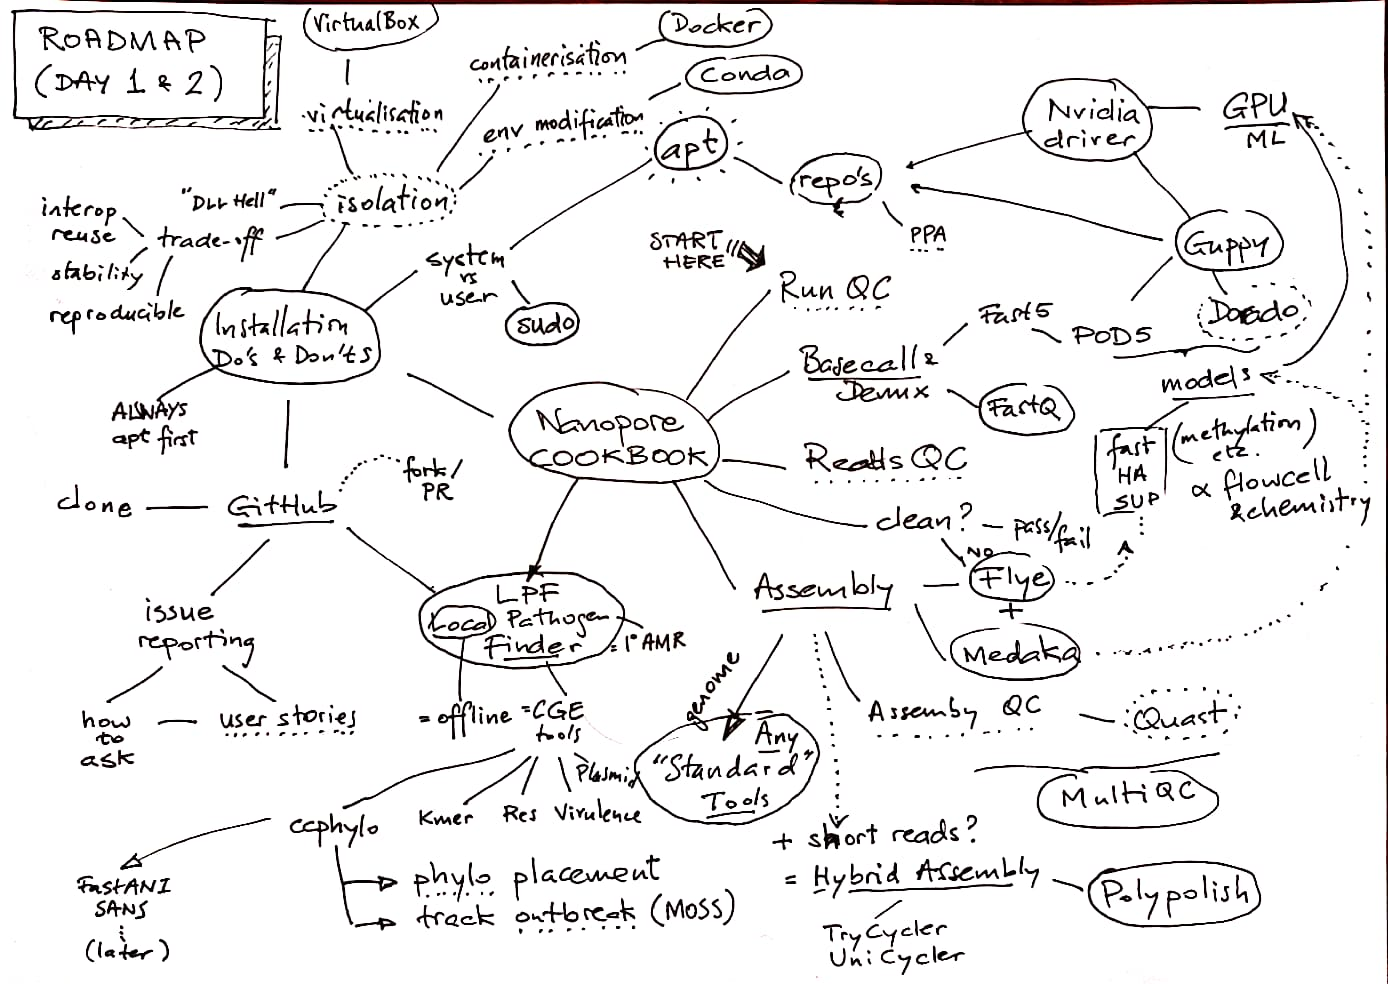
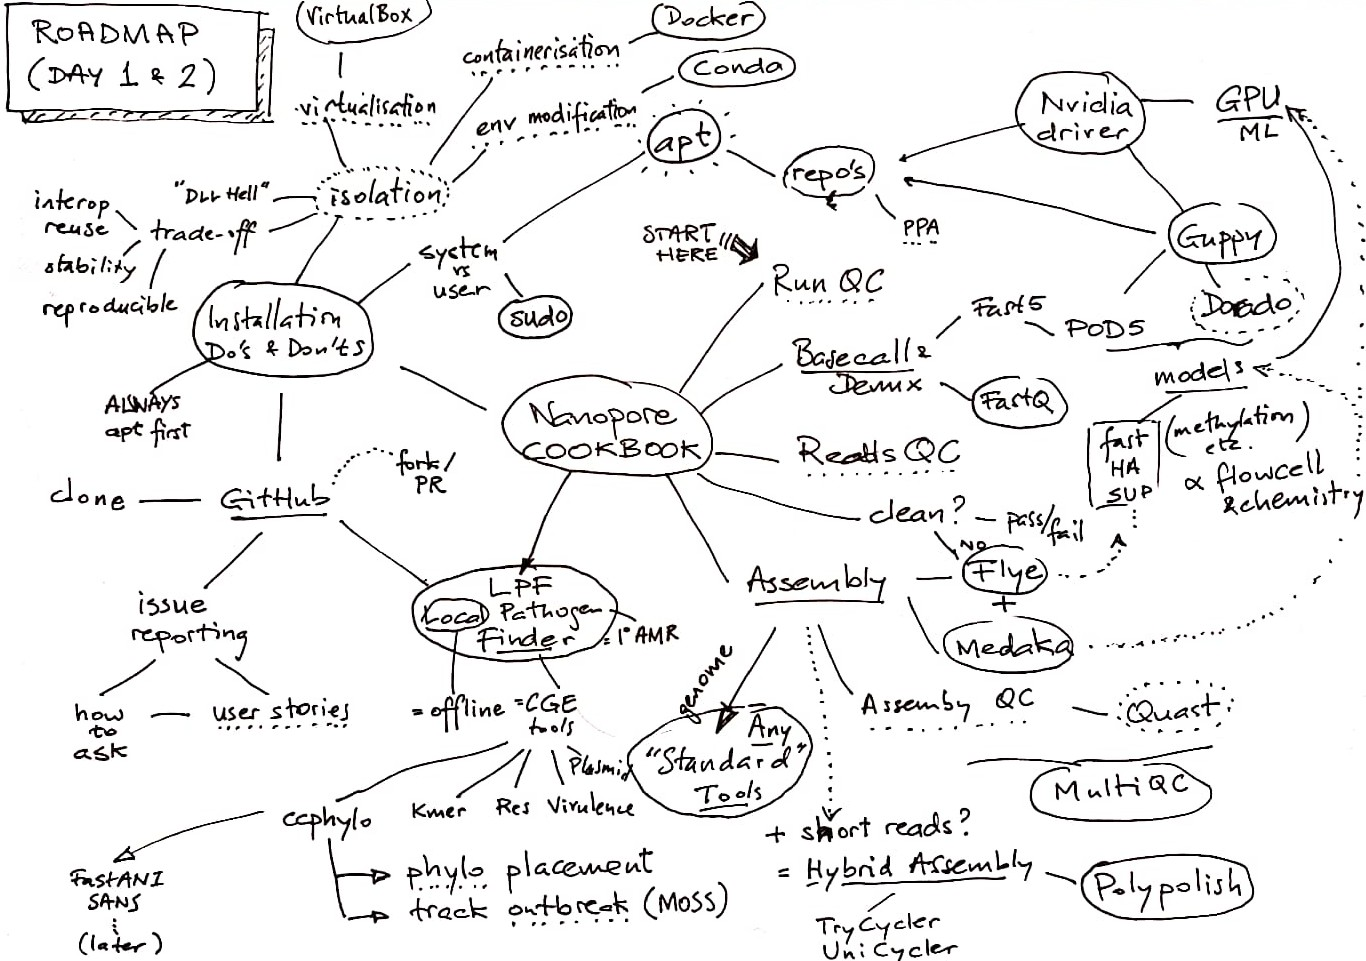
[nano-cookbook] trim black edge off roadmap

diff --git a/_notes/nano-cookbook.md b/_notes/nano-cookbook.md
@@ -1,6 +1,6 @@
 ---
-title: Nano Cookbook - Course materials for 2023-05 SeqAfrica/FAO Nanopore workshop
-excerpt: "Notebook with instructions for the May 2023 workshop at NMIMR Ghana: _Strengthening Microbial Risk Assessment for Food Safety and Antimicrobial Resistance Using Portable DNA Sequencing Technology_."
+title: Nano Cookbook - course materials
+excerpt: "Notebook with instructions for May 2023 workshop 'Strengthening Microbial Risk Assessment for Food Safety and Antimicrobial Resistance Using Portable DNA Sequencing Technology'
 layout: page
 updated: 2023-05-21
 ---
@@ -9,7 +9,7 @@ This page collects instructions for the May 2023 joint FAO/SeqAfrica workshop _"
 
 > These instructions were originally intended as the installation and user manual for the FAO-provided laptop and MinION sequencer.
 > As timely delivery became increasingly uncertain, the instructions were broken into bite-size bits that could be assembled in various ways.
-> There is a [road map](assets/NanoCourseRoadmap1.pdf) that shows how the bits are related.
+> Use the road map below to find your way back when you're lost `;)`.
 
 ## Road Map
 
